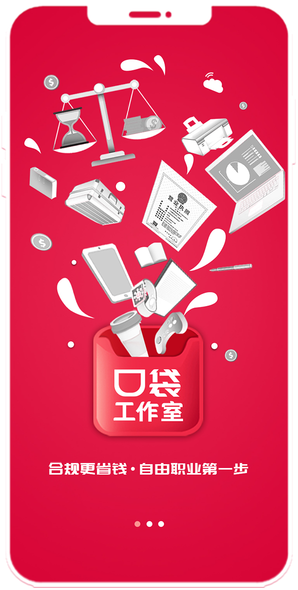
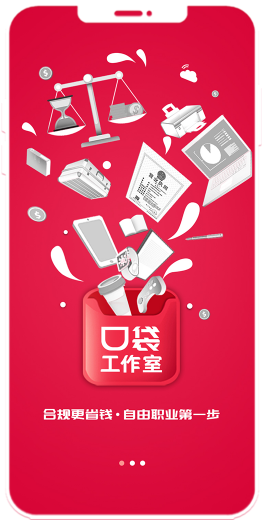
temp 暂存

diff --git a/client-side/src/config/images.ts b/client-side/src/config/images.ts
@@ -2,8 +2,8 @@
 export const BASE_64_IMG = {
[8 lines of base64/hex data omitted]
 }

diff --git a/client-side/src/app/modules/pc/pages/home/home-carousel/home-carousel.component.scss b/client-side/src/app/modules/pc/pages/home/home-carousel/home-carousel.component.scss
@@ -1,7 +1,7 @@
 @import "src/styles/images.pc";
 @import "src/styles/common.pc";
 
-$carousel-height: 869px;
+$carousel-height: 620px;
 
 .home-carousel {
   width: 100%;
@@ -49,19 +49,17 @@ $carousel-height: 869px;
       .phone-element {
         position: absolute;
         @include absolute-y-middle;
-        left: 50px;
-        width: 280px;
+        left: 88px;
       }
       .right-block {
         @include absolute-y-middle;
-        right: 50px;
+        right: 69px;
 
         .slogan {
           display: block;
-          width: 700px;
         }
         .button-like {
-          margin-left: 28px;
+          margin-left: 21px;
           margin-top: 30px;
         }
       }
@@ -76,7 +74,7 @@ $carousel-height: 869px;
           display: block;
         }
         .button-like {
-          margin-top: 30px;
+          margin-top: 22px;
           margin-left: 28px;
         }
       }
@@ -94,10 +92,10 @@ $carousel-height: 869px;
     transform: translateY(-50%);
     cursor: pointer;
     &.prev {
-      left: 50px;
+      left: 90px;
     }
     &.next {
-      right: 50px;
+      right: 90px;
     }
   }
   .ant-carousel .slick-dots-bottom, .ant-popover-placement-leftBottom>.ant-popover-content>.ant-popover-arrow, .ant-popover-placement-rightBottom>.ant-popover-content>.ant-popover-arrow {

diff --git a/client-side/src/app/modules/admin/pages/news-list/create-article/create-article.component.ts b/client-side/src/app/modules/admin/pages/news-list/create-article/create-article.component.ts
@@ -25,9 +25,11 @@ export class CreateArticleComponent implements OnInit {
     base_url: '/tinymce',
     language: 'zh_CN',
     suffix: '.min',
-    language_url : '/assets/tinymce/langs/zh_CN.js',
-    plugins: 'image',
-    toolbar: 'undo redo | formatselect | bold italic backcolor | alignleft aligncenter alignright alignjustify | bullist numlist outdent indent | removeformat | help | image',
+    language_url : '/assets/tinymce/langs/zh_CN.js', // 语言 中文
+    plugins: 'image, link', // 插件 图片/超链接
+    default_link_target: "_blank", // 打开的超链接新的地址打开
+    image_advtab: true, // 上传的图片的css样式（内置style）、边距（margin）和边框（border）
+    toolbar: 'undo redo | formatselect | bold italic backcolor | alignleft aligncenter alignright alignjustify | bullist numlist outdent indent | removeformat | help | image | link',
     images_upload_handler: (blobInfo, succFun, failFun) => {
       const file = blobInfo.blob();
       uploadAliyun(file).then(res => {

diff --git a/client-side/src/app/modules/pc/pages/news-center/news-detail/news-detail.component.ts b/client-side/src/app/modules/pc/pages/news-center/news-detail/news-detail.component.ts
@@ -1,11 +1,9 @@
 import {Component, OnInit, ViewEncapsulation} from '@angular/core';
 import {NewsCenterService} from "../news-center/news-center.service";
 import {ActivatedRoute} from "@angular/router";
-import {IArticleListOptions} from '@libs/request/article';
-import {ArticlePick} from '@libs/entity/article';
+import {ArticlePick, IArticleEntity} from '@libs/entity/article';
 import { Title } from '@angular/platform-browser';
 import { APPLICATION_NAME } from '@/config/resources';
-
 @Component({
   selector: 'app-news-detail',
   templateUrl: './news-detail.component.html',
@@ -14,7 +12,7 @@ import { APPLICATION_NAME } from '@/config/resources';
 })
 export class NewsDetailComponent implements OnInit {
   id: number;
-  newsDetail:IArticleListOptions;
+  newsDetail:IArticleEntity;
   preRelated: ArticlePick;
   nextRelated: ArticlePick;
   constructor(
